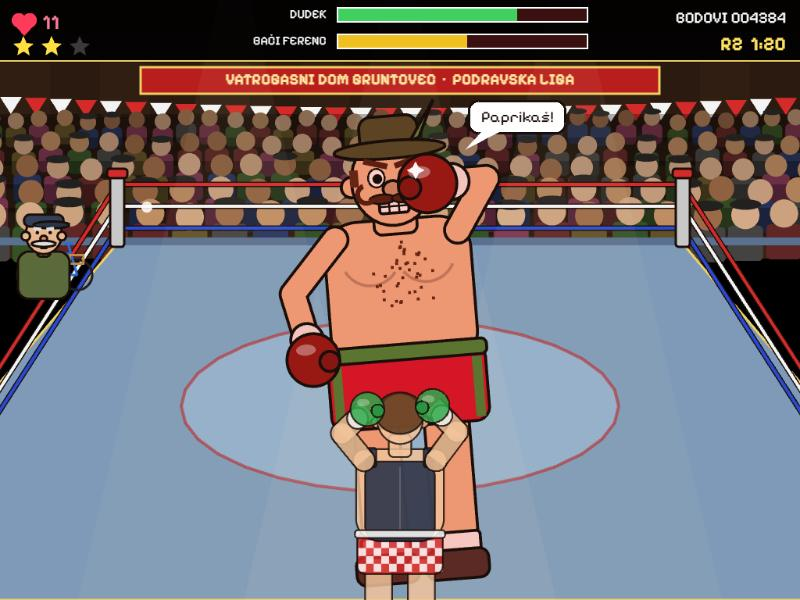
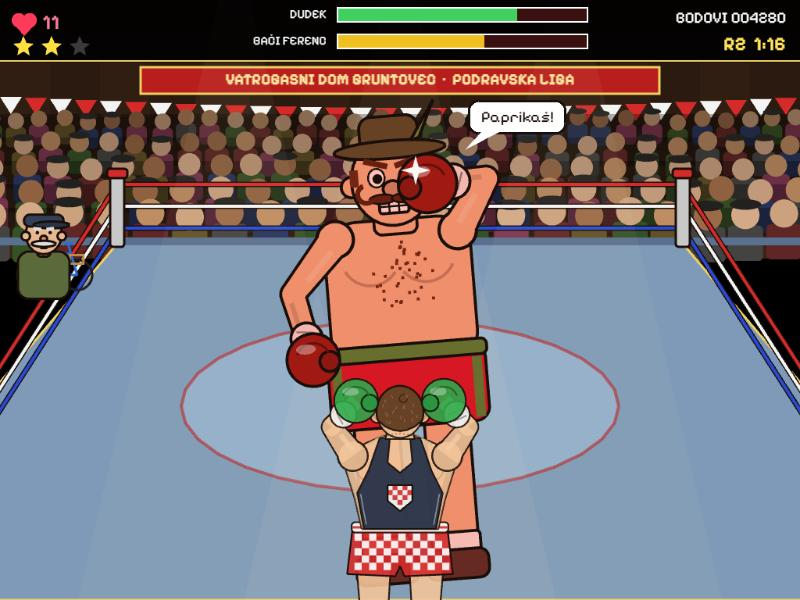
Fix Punch-Out freezing after the second win and redraw Dudek's back view

diff --git a/punchout/src/art.js b/punchout/src/art.js
@@ -35,26 +35,65 @@ function vgrad(g, x, y, w, h, c1, c2, bands = 24) {
     for (let i = 0; i < bands; i++) { g.fillStyle(mix(c1, c2, i / (bands - 1))); g.fillRect(x, y + i * bh, w, bh + 1); }
 }
 
+// A tapered limb (shoulder to elbow to wrist) ending in a laced, padded glove.
 function arm(g, sx, sy, gx, gy, gs, skin, glove, outward, cuff, thick = 24) {
     const dx = gx - sx, dy = gy - sy, d = Math.hypot(dx, dy) || 1;
     let nx = -dy / d, ny = dx / d;
     if (nx * outward < 0) { nx = -nx; ny = -ny; }
     const bend = Math.max(6, 70 - d * 0.3);
     const ex = (sx + gx) / 2 + nx * bend, ey = (sy + gy) / 2 + ny * bend;
-    const w = thick * (0.75 + gs * 0.25);
-    const limb = (col, lw) => {
-        g.lineStyle(lw, col);
-        g.beginPath(); g.moveTo(sx, sy); g.lineTo(ex, ey); g.lineTo(gx, gy); g.strokePath();
-        g.fillStyle(col); g.fillCircle(sx, sy, lw / 2); g.fillCircle(ex, ey, lw / 2);
+    const k = 0.75 + gs * 0.25, wS = thick * 1.3 * k, wE = thick * 0.95 * k, wW = thick * 0.8 * k;
+    const seg = (ax, ay, bx, by, wa, wb) => {
+        const l = Math.hypot(bx - ax, by - ay) || 1, px = -(by - ay) / l, py = (bx - ax) / l;
+        return [{ x: ax + px * wa / 2, y: ay + py * wa / 2 }, { x: bx + px * wb / 2, y: by + py * wb / 2 },
+            { x: bx - px * wb / 2, y: by - py * wb / 2 }, { x: ax - px * wa / 2, y: ay - py * wa / 2 }];
     };
-    limb(OL, w + 6);
-    limb(skin, w);
+    const limb = (col, grow) => {
+        g.fillStyle(col);
+        g.fillPoints(seg(sx, sy, ex, ey, wS + grow, wE + grow), true);
+        g.fillPoints(seg(ex, ey, gx, gy, wE + grow, wW + grow), true);
+        g.fillCircle(sx, sy, (wS + grow) * 0.56);
+        g.fillCircle(ex, ey, (wE + grow) / 2);
+    };
+    limb(OL, 6);
+    limb(skin, 0);
+    // Light along the biceps, shadow under the forearm
+    g.lineStyle(Math.max(2, wS * 0.2), shade(skin, 1.12), 0.8);
+    g.lineBetween(lerp(sx, ex, 0.2) - nx * wS * 0.18, lerp(sy, ey, 0.2) - ny * wS * 0.18, lerp(sx, ex, 0.75) - nx * wE * 0.18, lerp(sy, ey, 0.75) - ny * wE * 0.18);
+    g.lineStyle(Math.max(2, wE * 0.22), shade(skin, 0.82), 0.7);
+    g.lineBetween(lerp(ex, gx, 0.15) + nx * wE * 0.22, lerp(ey, gy, 0.15) + ny * wE * 0.22, lerp(ex, gx, 0.7) + nx * wW * 0.22, lerp(ey, gy, 0.7) + ny * wW * 0.22);
+
+    const r = 30 * gs, ed = Math.hypot(ex - gx, ey - gy) || 1, ux = (ex - gx) / ed, uy = (ey - gy) / ed;
+    const cx = gx + ux * r * 0.85, cy = gy + uy * r * 0.85;
     g.lineStyle(3, OL);
-    const r = 30 * gs, ed = Math.hypot(ex - gx, ey - gy) || 1;
-    disc(g, gx + (ex - gx) / ed * r * 0.8, gy + (ey - gy) / ed * r * 0.8, r * 0.62, cuff);
+    disc(g, cx, cy, r * 0.6, cuff);
+    g.lineStyle(Math.max(1.5, 2 * gs), shade(cuff, 0.6));
+    for (const t of [-0.25, 0.15]) {
+        g.lineBetween(cx + ux * r * t - uy * r * 0.3, cy + uy * r * t + ux * r * 0.3, cx + ux * r * (t + 0.2) + uy * r * 0.3, cy + uy * r * (t + 0.2) - ux * r * 0.3);
+    }
+    g.lineStyle(3, OL);
     disc(g, gx, gy, r, glove);
     disc(g, gx - outward * r * 0.62, gy + r * 0.1, r * 0.38, shade(glove, 0.88));
-    g.fillStyle(0xffffff, 0.35); g.fillEllipse(gx - r * 0.25, gy - r * 0.4, r * 0.75, r * 0.42);
+    g.lineStyle(Math.max(1.5, 2.5 * gs), shade(glove, 0.62));
+    g.beginPath(); g.arc(gx, gy, r * 0.64, Math.PI * 1.12, Math.PI * 1.88); g.strokePath();
+    g.fillStyle(0xffffff, 0.35); g.fillEllipse(gx - r * 0.25, gy - r * 0.42, r * 0.75, r * 0.38);
+}
+
+function inPoly(pts, x, y) {
+    let inside = false;
+    for (let i = 0, j = pts.length - 1; i < pts.length; j = i++) {
+        const a = pts[i], b = pts[j];
+        if ((a.y > y) !== (b.y > y) && x < (b.x - a.x) * (y - a.y) / (b.y - a.y) + a.x) inside = !inside;
+    }
+    return inside;
+}
+
+// Fills the squares of a checkerboard that lie wholly inside a polygon.
+function checker(g, pts, x0, y0, x1, y1, sq, col) {
+    g.fillStyle(col);
+    for (let y = y0, row = 0; y < y1; y += sq, row++) for (let x = x0, c = 0; x < x1; x += sq, c++) {
+        if ((row + c) % 2 && inPoly(pts, x + 0.5, y + 0.5) && inPoly(pts, x + sq - 0.5, y + 0.5) && inPoly(pts, x + 0.5, y + sq - 0.5) && inPoly(pts, x + sq - 0.5, y + sq - 0.5)) g.fillRect(x, y, sq, sq);
+    }
 }
 
 function drawHead(g, L, x, y, R, face, C) {
@@ -246,34 +285,79 @@ function drawFighter(g, L, p) {
     if (p.ls > p.rs) { right(); left(); } else { left(); right(); }
 }
 
-// Dudek seen from behind, drawn around his waist.
+// Dudek seen from behind, drawn around his waist: a V-shaped back in a scoop-back top with the
+// checkerboard crest, checked shorts, boots, and a short crop faded at the nape.
 function drawBack(g, L, p) {
     g.clear();
     const skin = p.tint > 0.01 ? mix(L.skin, 0xff5fa0, p.tint) : L.skin;
+    const dark = shade(skin, 0.8);
     g.lineStyle(3, OL);
-    for (const sx of [-38, 38]) box(g, sx - 24, 30, 48, 150, 10, skin);
-    box(g, -76, -16, 152, 74, 14, L.trunks);
-    g.fillStyle(0xffffff);
-    for (let yy = 0; yy < 4; yy++) for (let xx = 0; xx < 11; xx++) if ((xx + yy) % 2) g.fillRect(-74 + xx * 13.6, -2 + yy * 14, 13.6, 14);
-    g.strokeRoundedRect(-76, -16, 152, 74, 14);
-    box(g, -78, -164, 156, 162, 38, skin);
-    box(g, -62, -142, 124, 142, 26, L.topColor);
-    box(g, -60, -166, 18, 34, 4, L.topColor);
-    box(g, 42, -166, 18, 34, 4, L.topColor);
-    g.lineStyle(3, shade(L.topColor, 1.4), 0.6); g.lineBetween(0, -132, 0, -20);
+
+    for (const s of [-1, 1]) {
+        poly(g, [{ x: s * 16, y: 40 }, { x: s * 78, y: 40 }, { x: s * 72, y: 112 }, { x: s * 68, y: 146 }, { x: s * 62, y: 186 }, { x: s * 28, y: 186 }, { x: s * 24, y: 140 }, { x: s * 20, y: 108 }], skin);
+        g.fillStyle(dark, 0.55); g.fillEllipse(s * 50, 138, 24, 46);
+        g.lineStyle(3, OL);
+        box(g, s * 45 - 23, 172, 46, 52, 10, L.shoes);
+        g.lineStyle(2, 0xe0e0e0);
+        for (let k = 0; k < 3; k++) g.lineBetween(s * 45 - 8, 182 + k * 10, s * 45 + 8, 186 + k * 10);
+        g.lineStyle(3, OL);
+    }
+
+    const shorts = [{ x: -84, y: -22 }, { x: 84, y: -22 }, { x: 94, y: 62 }, { x: 8, y: 66 }, { x: 0, y: 48 }, { x: -8, y: 66 }, { x: -94, y: 62 }];
+    poly(g, shorts, L.trunks);
+    checker(g, shorts, -94, -10, 94, 66, 13, 0xffffff);
+    g.lineStyle(3, OL); g.strokePoints(shorts, true);
+    box(g, -86, -30, 172, 18, 6, L.belt);
+    g.fillStyle(L.trunks); g.fillRect(-84, -23, 168, 4);
+
+    const back = [{ x: -68, y: -18 }, { x: 68, y: -18 }, { x: 80, y: -70 }, { x: 96, y: -122 }, { x: 90, y: -152 }, { x: 62, y: -170 }, { x: 30, y: -184 }, { x: -30, y: -184 }, { x: -62, y: -170 }, { x: -90, y: -152 }, { x: -96, y: -122 }, { x: -80, y: -70 }];
+    poly(g, back, skin);
+    g.fillStyle(dark, 0.45);
+    for (const s of [-1, 1]) g.fillPoints([{ x: s * 68, y: -18 }, { x: s * 80, y: -70 }, { x: s * 96, y: -122 }, { x: s * 82, y: -118 }, { x: s * 68, y: -70 }, { x: s * 56, y: -18 }], true);
+    // Shoulder blades and the trapezius either side of the neck
+    g.lineStyle(3, dark, 0.8);
+    for (const s of [-1, 1]) {
+        g.beginPath(); g.arc(s * 52, -128, 26, s < 0 ? Math.PI * 0.55 : Math.PI * 0.05, s < 0 ? Math.PI * 0.95 : Math.PI * 0.45); g.strokePath();
+        g.lineBetween(s * 18, -192, s * 58, -168);
+    }
+    g.lineStyle(3, 0xfff4c0, 0.35);
+    for (const s of [-1, 1]) g.lineBetween(s * 34, -182, s * 82, -156);
+
     g.lineStyle(3, OL);
-    box(g, -80, -20, 160, 14, 5, L.belt);
-    box(g, -20, -190, 40, 40, 8, skin);
-    disc(g, -41, -212, 10, skin);
-    disc(g, 41, -212, 10, skin);
-    oval(g, 0, -218, 82, 90, skin);
-    oval(g, 0, -228, 86, 74, L.hairColor);
+    const top = [{ x: -64, y: -18 }, { x: 64, y: -18 }, { x: 76, y: -82 }, { x: 56, y: -122 }, { x: 36, y: -180 }, { x: 18, y: -180 }, { x: 22, y: -136 }, { x: 0, y: -118 }, { x: -22, y: -136 }, { x: -18, y: -180 }, { x: -36, y: -180 }, { x: -56, y: -122 }, { x: -76, y: -82 }];
+    poly(g, top, L.topColor);
+    g.lineStyle(2, shade(L.topColor, 1.8), 0.7);
+    g.lineBetween(-60, -26, -70, -80); g.lineBetween(60, -26, 70, -80);
+    const crest = [{ x: -22, y: -96 }, { x: 22, y: -96 }, { x: 22, y: -68 }, { x: 0, y: -50 }, { x: -22, y: -68 }];
+    g.lineStyle(3, OL);
+    poly(g, crest, 0xffffff);
+    checker(g, crest, -22, -96, 22, -50, 8.8, 0xd42a2a);
+    g.lineStyle(3, OL); g.strokePoints(crest, true);
+
+    // Neck, ears, and the back of the head
+    poly(g, [{ x: -26, y: -178 }, { x: -18, y: -210 }, { x: 18, y: -210 }, { x: 26, y: -178 }], skin);
+    for (const s of [-1, 1]) { disc(g, s * 41, -218, 11, skin); g.fillStyle(dark); g.fillCircle(s * 42, -218, 5); }
+    oval(g, 0, -226, 82, 92, skin);
+    const hair = L.hairColor, cap = [];
+    for (let i = 0; i <= 20; i++) { const a = Math.PI * (0.9 + 1.2 * i / 20); cap.push({ x: Math.cos(a) * 42, y: -226 + Math.sin(a) * 47 }); }
+    cap.push({ x: 26, y: -200 }, { x: 12, y: -194 }, { x: 0, y: -192 }, { x: -12, y: -194 }, { x: -26, y: -200 });
+    poly(g, cap, hair);
+    g.fillStyle(hair, 0.35);
+    for (let i = -3; i <= 3; i++) g.fillCircle(i * 7, -188 + Math.abs(i), 2);
+    const r = rng(9);
+    g.lineStyle(2, shade(hair, 1.35), 0.6);
+    for (let i = 0; i < 18; i++) {
+        const x = -30 + r() * 60, y = -262 + r() * 58;
+        if (inPoly(cap, x, y)) g.lineBetween(x, y, x + (r() - 0.5) * 6, y + 6);
+    }
+    g.lineStyle(2, shade(hair, 0.6));
+    g.beginPath(); g.arc(6, -250, 7, 0, Math.PI * 1.6); g.strokePath();
+
     const glove = L.gloves, cuff = 0xf0f0f0;
-    const left = () => arm(g, -64, -144, p.lx, p.ly, p.ls, skin, glove, -1, cuff, 36);
-    const right = () => arm(g, 64, -144, p.rx, p.ry, p.rs, skin, glove, 1, cuff, 36);
+    const left = () => arm(g, -84, -148, p.lx, p.ly, p.ls, skin, glove, -1, cuff, 32);
+    const right = () => arm(g, 84, -148, p.rx, p.ry, p.rs, skin, glove, 1, cuff, 32);
     if (p.ly < p.ry) { right(); left(); } else { left(); right(); }
 }
-
 // Dida Imbro, Dudek's trainer, in his cap with his bicycle never far away.
 function drawDida(g, x, y, s = 1, talking = false) {
     g.lineStyle(3, OL);

diff --git a/punchout/src/fight.js b/punchout/src/fight.js
@@ -30,7 +30,7 @@ class FightScene extends Phaser.Scene {
         this.refG = this.add.graphics().setDepth(8);
         this.oppG = this.add.graphics().setDepth(10);
         this.tellG = this.add.graphics().setDepth(11);
-        this.plG = this.add.graphics().setDepth(20).setAlpha(0.84);
+        this.plG = this.add.graphics().setDepth(20).setAlpha(0.9);
         this.fxG = this.add.graphics().setDepth(30);
         this.cloudG = this.add.graphics().setDepth(35);
         this.hudG = this.add.graphics().setDepth(50);
@@ -64,6 +64,13 @@ class FightScene extends Phaser.Scene {
         this.buffer = null;
         this.phase = 'intro';
         this.lastMove = null;
+        // Phaser reuses this scene object for every fight, so nothing may carry over from the last one
+        this.finished = false;
+        this.overlay = null;
+        this.bubble = null;
+        this.countEv = null;
+        this.cornerReady = false;
+        this.count = 0;
 
         this.setupInput();
         this.startRound(1);
@@ -754,9 +761,9 @@ class FightScene extends Phaser.Scene {
     plTarget() {
         const P = this.pl, T = this.T, bob = Math.sin(T * 0.006) * 3;
         const tint = P.tired ? 0.45 + 0.15 * Math.sin(T * 0.01) : 0;
-        const idle = { lx: -58, ly: -238 + bob, rx: 58, ry: -238 - bob, y: bob, tint };
+        const idle = { lx: -78, ly: -246 + bob, rx: 78, ry: -246 - bob, ls: 1.3, rs: 1.3, y: bob, tint };
         switch (P.state) {
-            case 'block': return pose({ lx: -22, ly: -230, rx: 22, ry: -234, y: 24, tint });
+            case 'block': return pose({ lx: -30, ly: -232, rx: 30, ry: -236, ls: 1.35, rs: 1.35, y: 24, tint });
             case 'dodge': {
                 const k = P.t < 430 ? 1 : Math.max(0, 1 - (P.t - 430) / 130);
                 return pose(Object.assign({}, idle, { x: P.dir * 170 * k, rot: P.dir * 0.32 * k, y: 18 * k }));
@@ -764,13 +771,13 @@ class FightScene extends Phaser.Scene {
             case 'punch': {
                 if (P.t >= 150) return pose(idle);
                 const p = pose(Object.assign({}, idle, { x: (P.hand === 'L' ? -1 : 1) * 14, y: P.high ? -170 : -60 }));
-                const gy = P.high ? -472 : -347, gs = P.high ? 0.72 : 0.8;
+                const gy = P.high ? -472 : -347, gs = P.high ? 0.95 : 1.05;
                 if (P.hand === 'L') { p.lx = -18; p.ly = gy; p.ls = gs; } else { p.rx = 18; p.ry = gy; p.rs = gs; }
                 return p;
             }
             case 'star':
                 if (P.t < 330) return pose({ lx: -50, ly: -220, rx: 95, ry: -90, y: 36, rot: 0.1, x: 20, tint });
-                return pose({ lx: -50, ly: -230, rx: 6, ry: -465, rs: 0.85, y: -180, rot: -0.04 });
+                return pose({ lx: -50, ly: -230, rx: 6, ry: -465, rs: 1.1, y: -180, rot: -0.04 });
             case 'recoil': return pose({ lx: -80, ly: -200, rx: 80, ry: -200, y: 28, tint });
             case 'hurt': return pose({ x: P.hurtSide * 40 + Math.sin(P.t * 0.08) * 8, rot: P.hurtSide * 0.15, y: 26, lx: -100, ly: -170, rx: 100, ry: -170, tint });
             case 'down': {

diff --git a/punchout/src/fighters.js b/punchout/src/fighters.js
@@ -9,7 +9,7 @@
 
 const DUDEK = {
     name: 'Dudek', skin: 0xf2c49a, width: 140, headR: 42, hair: 'short', hairColor: 0x5a3418, brows: 0x4a2a10,
-    top: 'singlet', topColor: 0x1d2a44, trunks: 0xd42a2a, pattern: 'checker', belt: 0xffffff, gloves: 0x2fa84a, shoes: 0x202020,
+    top: 'singlet', topColor: 0x1d2a44, trunks: 0xd42a2a, pattern: 'checker', belt: 0xffffff, gloves: 0x2fa84a, shoes: 0xa81818,
 };
 
 const DIDA = 'Dida Imbro';
